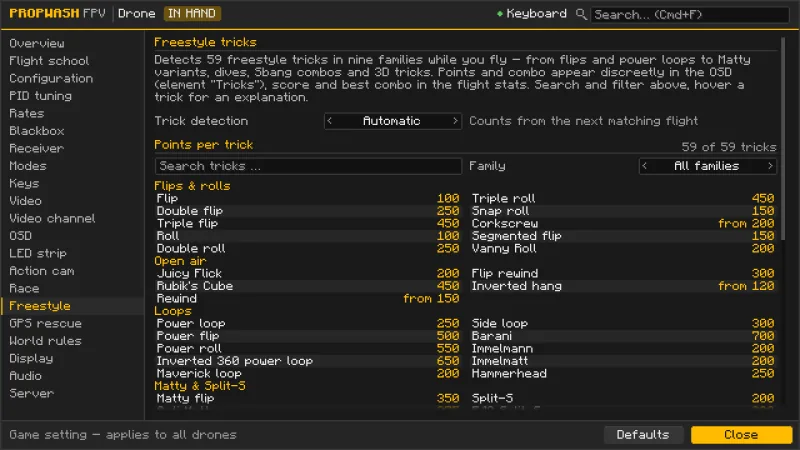
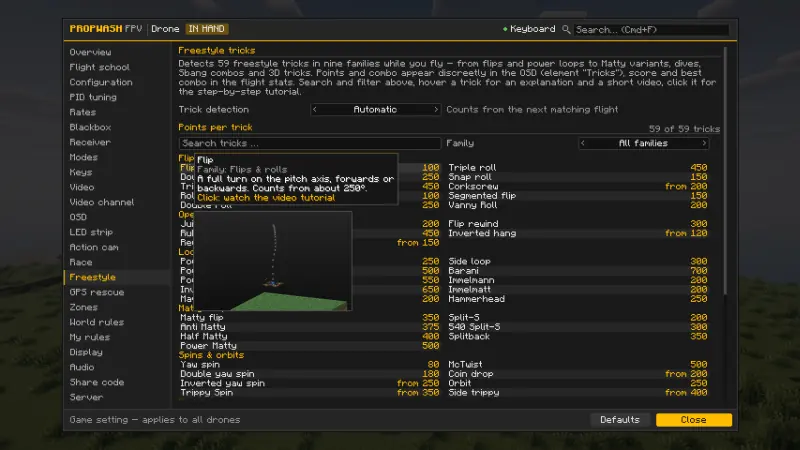
K-Menü auf 0.6.0 (SITE-NACH2-1): configurator-rates, -pid, -osd und -tricks neu aus dem Release-Stand, in der Landschaft Seed 20261003 mit Shader, GUI-Skala 3 in 2560 × 1440, damit hinter dem Fenster die Welt gedimmt sichtbar bleibt; Reiterliste mit Zones, My rules und Share code, Freestyle mit alle

Changed region(s): [[0.0, 0.0, 1.0, 1.0], [0.9375, 0.6844, 0.9688, 0.84], [0.9375, 0.8711, 0.9688, 0.9022]]

diff --git a/index.html b/index.html
@@ -819,7 +819,7 @@
       <li><a href="assets/img/flight-school-sticks-1600.webp"><img src="assets/img/flight-school-sticks-800.webp" width="800" height="450" loading="lazy" decoding="async" alt="Flight School: sticks and axes, explained with the radio and a drone" data-de-alt="Flugschule: Knüppel und Achsen, erklärt mit Funke und Drohne"></a></li>
       <li><a href="assets/img/training-course-los-1600.webp"><img src="assets/img/training-course-los-800.webp" width="800" height="450" loading="lazy" decoding="async" alt="Flight training in line of sight: lesson 2.4, Figure eight, with holographic rings and the radio in both hands" data-de-alt="Flugtraining auf Sicht: Lektion 2.4, Die Acht, mit holografischen Ringen und der Funke in beiden Händen"></a></li>
       <li><a href="assets/img/training-screen-1600.webp"><img src="assets/img/training-screen-800.webp" width="800" height="450" loading="lazy" decoding="async" alt="Flight training window: 20 lessons in 5 chapters with stars, best time and a tip for the lesson Flying turns" data-de-alt="Fenster Flugtraining: 20 Lektionen in 5 Kapiteln mit Sternen, Bestzeit und einem Tipp zur Lektion Kurven fliegen"></a></li>
-      <li><a href="assets/img/configurator-tricks-1600.webp"><img src="assets/img/configurator-tricks-800.webp" width="800" height="450" loading="lazy" decoding="async" alt="Configurator, Freestyle tab: all 59 tricks with their points, grouped into families, with search" data-de-alt="Konfigurator, Tab Freestyle: alle 59 Tricks mit ihren Punkten, nach Familien gruppiert, mit Suche"></a></li>
+      <li><a href="assets/img/configurator-tricks-1600.webp"><img src="assets/img/configurator-tricks-800.webp" width="800" height="450" loading="lazy" decoding="async" alt="Configurator, Freestyle tab: all 59 tricks with their points, grouped into families; over a trick a short video plays and a click opens its tutorial" data-de-alt="Konfigurator, Tab Freestyle: alle 59 Tricks mit ihren Punkten, nach Familien gruppiert; über einem Trick läuft ein kurzes Video, ein Klick öffnet sein Tutorial"></a></li>
       <li><a href="assets/img/gate-markings-1600.webp"><img src="assets/img/gate-markings-800.webp" width="800" height="450" loading="lazy" decoding="async" alt="Gates 2, 3 and 4 with number boards and arrows on the ground" data-de-alt="Gates 2, 3 und 4 mit Nummerntafeln und Pfeilen am Boden"></a></li>
       <li><a href="assets/img/course-elements-1600.webp"><img src="assets/img/course-elements-800.webp" width="800" height="450" loading="lazy" decoding="async" alt="A course with the start/finish gate, a dive cube, slalom poles and a turn flag" data-de-alt="Ein Kurs mit Start-/Ziel-Gate, Tauchwürfel, Slalomstangen und Wendeflagge"></a></li>
       <li><a href="assets/img/docs/gate-pole-multigp-1600.webp"><img src="assets/img/docs/gate-pole-multigp-800.webp" width="800" height="450" loading="lazy" decoding="async" alt="A square gate standing on grass with a tall pole rising from its upper right corner" data-de-alt="Ein quadratisches Gate auf einer Wiese, aus seiner oberen rechten Ecke ragt eine hohe Stange nach oben"></a></li>
